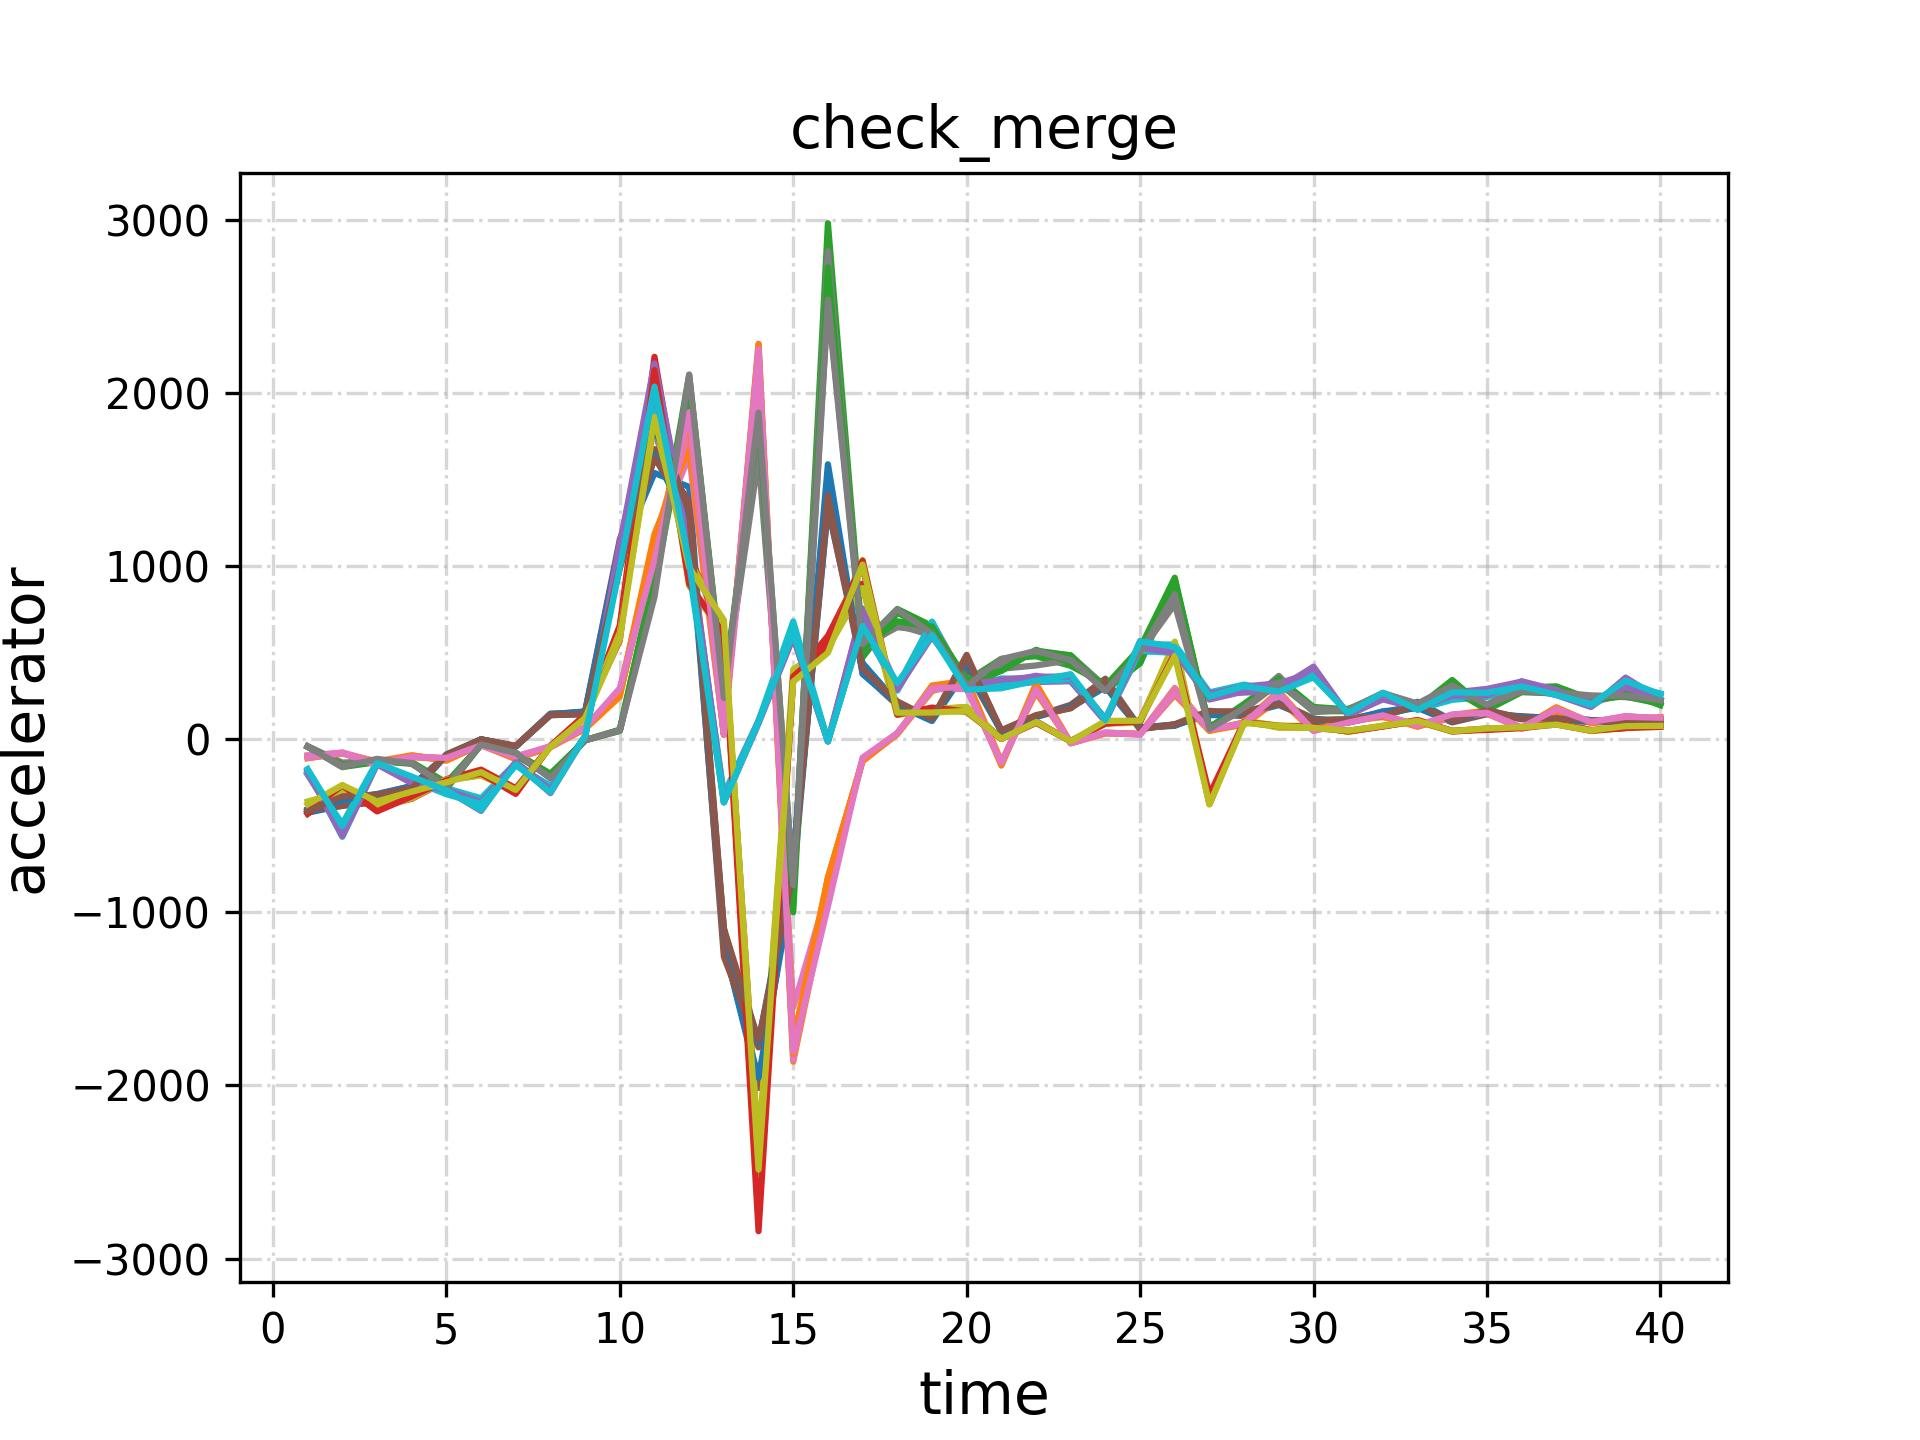
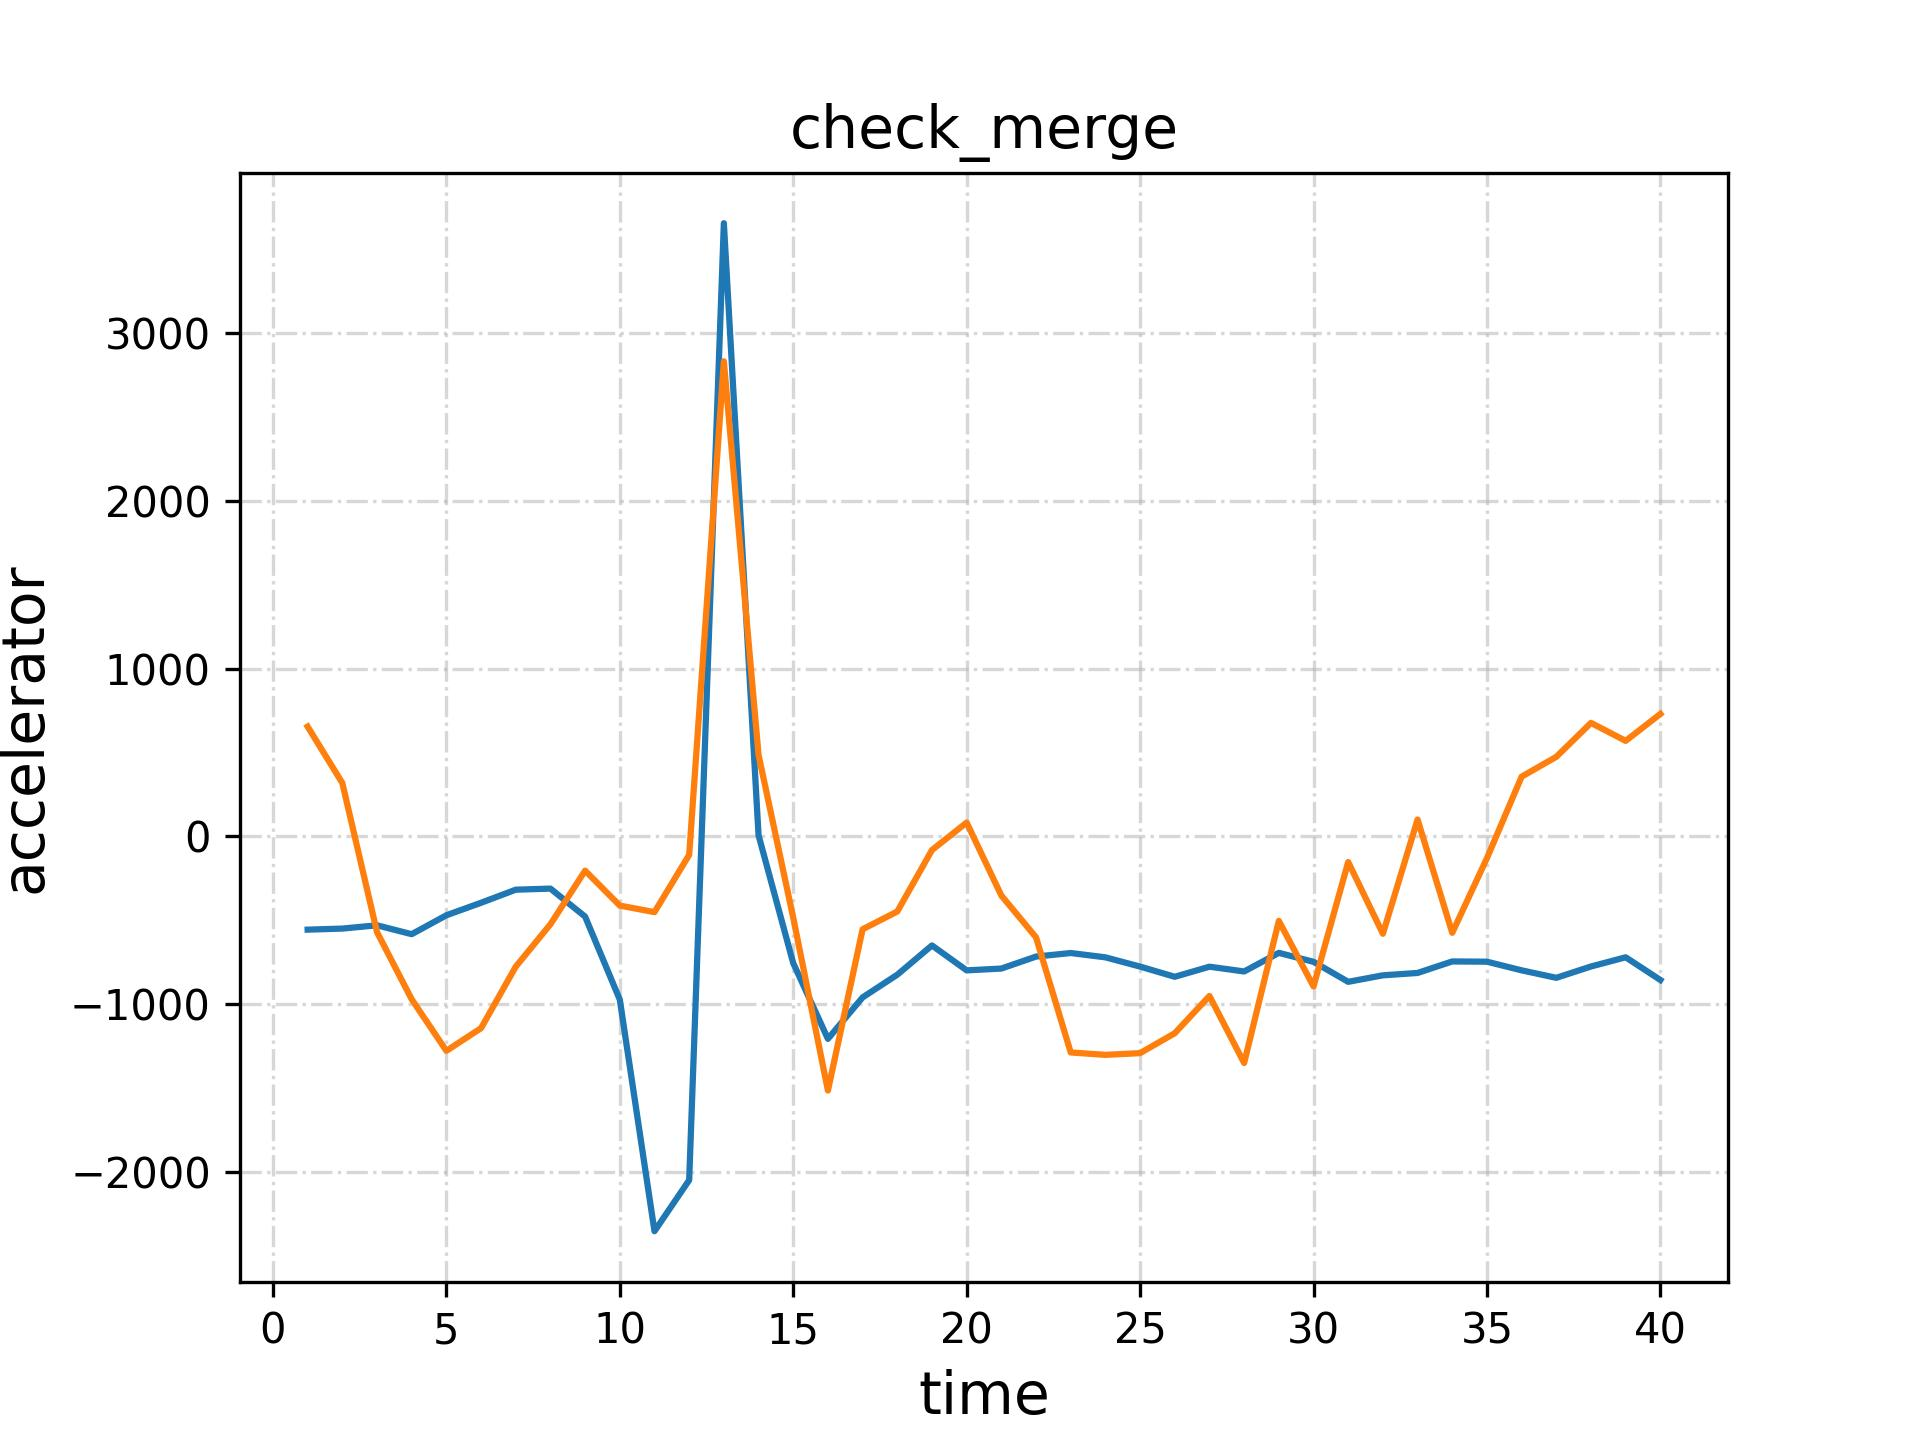
1

diff --git a/train/aug_test.py b/train/aug_test.py
@@ -1,0 +1,110 @@
+# Lint as: python3
+# Copyright 2019 The TensorFlow Authors. All Rights Reserved.
+#
+# Licensed under the Apache License, Version 2.0 (the "License");
+# you may not use this file except in compliance with the License.
+# You may obtain a copy of the License at
+#
+#     http://www.apache.org/licenses/LICENSE-2.0
+#
+# Unless required by applicable law or agreed to in writing, software
+# distributed under the License is distributed on an "AS IS" BASIS,
+# WITHOUT WARRANTIES OR CONDITIONS OF ANY KIND, either express or implied.
+# See the License for the specific language governing permissions and
+# limitations under the License.
+# ==============================================================================
+# pylint: disable=g-bad-import-order
+"""Data augmentation that will be used in data_load.py."""
+
+from __future__ import absolute_import
+from __future__ import division
+from __future__ import print_function
+
+import random
+
+import numpy as np
+from matplotlib import pyplot as plt
+
+from data_prepare import write_data, prepare_original_data
+
+
+def draw(title, _x, _y):
+    # 画图代码
+    # print(data.head()) #可以先看看表的前几行，看有没有载入对
+    plt.plot(_x, _y)  # 连线图,若要散点图将此句改为：plt.scatter(x,y) #散点图
+    plt.grid(alpha=0.5, linestyle='-.')  # 网格线，更好看
+    plt.title(title, fontsize=14)  # 画总标题 fontsize为字体，下同
+    plt.xlabel("x", fontsize=14)  # 画横坐标
+    plt.ylabel("y", fontsize=14)  # 画纵坐标
+    plt.savefig(title + '.jpg', dpi=300)  # 可以存到本地，高清大图。路径默认为当前路径，dpi可理解为清晰度
+
+
+def time_wrapping(molecule, denominator, data):
+    """Generate (molecule/denominator)x speed data."""
+    tmp_data = [[0 for i in range(len(data[0]))]
+                for j in range((int(len(data) / molecule) - 1) * denominator)]
+    for i in range(int(len(data) / molecule) - 1):
+        for j in range(len(data[i])):
+            for k in range(denominator):
+                tmp_data[denominator * i +
+                         k][j] = (data[molecule * i + k][j] * (denominator - k) +
+                                  data[molecule * i + k + 1][j] * k) / denominator
+    return tmp_data
+
+
+def augment_data(original_data,title):
+    """Perform data augmentation."""
+    new_data = []
+    aug_data = []
+    for data in (original_data):  # pylint: disable=unused-variable
+        # Original data
+        new_data.append(data)
+        aug_data.append(data)
+        # Sequence shift
+        for num in range(5):  # pylint: disable=unused-variable
+            new_data.append((np.array(data, dtype=np.float32) +
+                             (random.random() - 0.5) * 200).tolist())
+            aug_data.append((np.array(data, dtype=np.float32) +
+                             (random.random() - 0.5) * 200).tolist())
+
+        # Random noise
+        tmp_data = [[0 for i in range(len(data[0]))] for j in range(len(data))]
+        for num in range(5):
+            for i in range(len(tmp_data)):
+                for j in range(len(tmp_data[i])):
+                    tmp_data[i][j] = data[i][j] + 5 * random.random()
+            new_data.append(tmp_data)
+        # Time warping
+        fractions = [(3, 2), (5, 3), (2, 3), (3, 4), (9, 5), (6, 5), (4, 5)]
+        for molecule, denominator in fractions:
+            new_data.append(time_wrapping(molecule, denominator, data))
+
+        # Movement amplification
+        for molecule, denominator in fractions:
+            new_data.append(
+                (np.array(data, dtype=np.float32) * molecule / denominator).tolist())
+
+    for item1 in aug_data[0:7]:
+        xlist = []
+        for item2 in item1:
+            xlist.append(item2[0])
+        x_alias = list(range(1, len(xlist) + 1))
+        draw("check_augment_x_ss"+title, x_alias, xlist)
+
+
+
+now = []
+data_now = []
+with open("xzy/output_xzy_xuzy.txt") as lines:
+    for line in lines:
+        if len(line) >= 2:
+            if line[len(line) - 2] == '-':
+                if len(now) != 0:
+                    data_now.append(now)
+                now = []
+                continue
+            data = line.split(',')
+            now.append([float(i) for i in data])
+if len(now) != 0:
+    data_now.append(now)
+augment_data(data_now,"xzy")

diff --git a/train/data_view.py b/train/data_view.py
@@ -163,18 +163,18 @@ def show_origin(file2, who):
 def show_merge():
     data_whole = [[], [], [], [], []]
     for index_now in range(5):
-        data_whole[index_now] = get_split(files_test[index_now], 0)
-    for people in data_whole[1:2]:
+        data_whole[index_now] = get_split(files_test[index_now], 1)
+    for people in data_whole[1:3]:
         for xx in people:
             x_alias = list(range(1, len(xx) + 1))
             draw("check_merge", x_alias, xx)
-
+            break
 #
 # show_origin("former/output_wing_hyw.txt",0)
 # show_origin("former/output_wing_dengyl.txt",1)
 # show_origin("former/output_wing_jiangyh.txt",2)
 # show_origin("former/output_wing_liucx.txt")
 # show_origin("former/output_wing_lsj.txt")
-show_origin(files_test[4],4)
+# show_origin(files_test[4],4)
 show_merge()
 # show_origin("shoot/output_shoot_linyl.txt")

diff --git a/train/data_load.py b/train/data_load.py
@@ -56,8 +56,8 @@ class DataLoader(object):
                 dic = json.loads(line)
                 data.append(dic[DATA_NAME])
                 label.append(dic[LABEL_NAME])
-        if data_type == "train":
-            data, label = augment_data(data, label)  # 数据增强的地方 只对train数据有效
+        # if data_type == "train":
+        #     data, label = augment_data(data, label)  # 数据增强的地方 只对train数据有效
         length = len(label)
         print(data_type + "_data_length:" + str(length))
         return data, label, length

diff --git a/train/data_augmentation.py b/train/data_augmentation.py
@@ -69,4 +69,7 @@ def augment_data(original_data, original_label):
       new_data.append(
           (np.array(data, dtype=np.float32) * molecule / denominator).tolist())
       new_label.append(label)
-  return new_data, new_label
+
+
+
+
